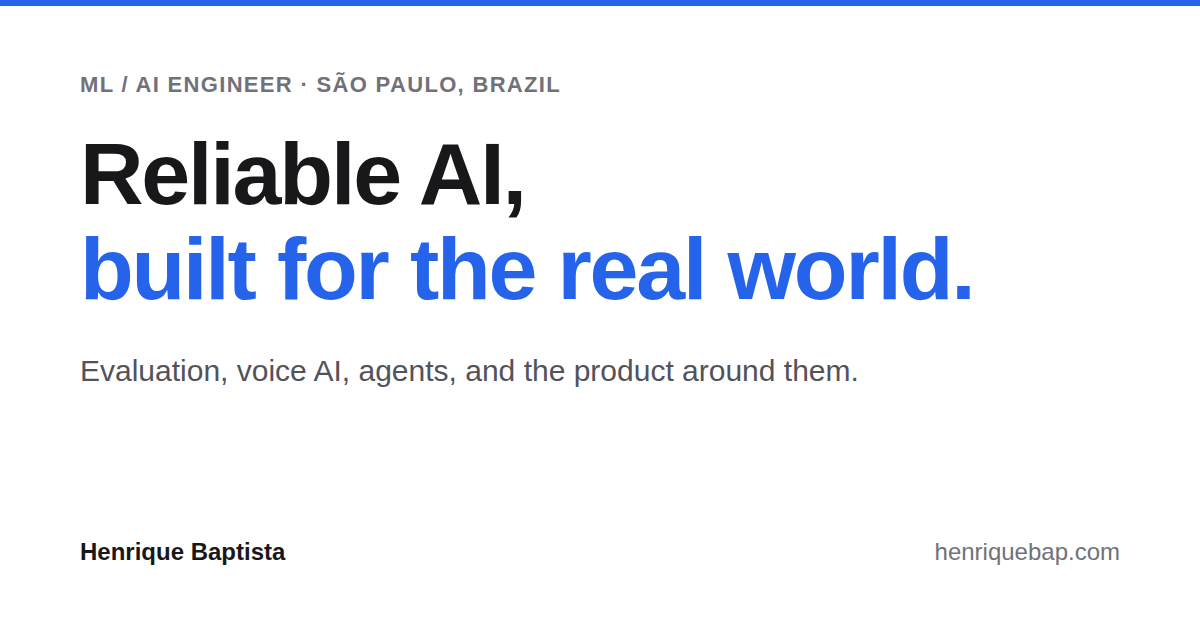
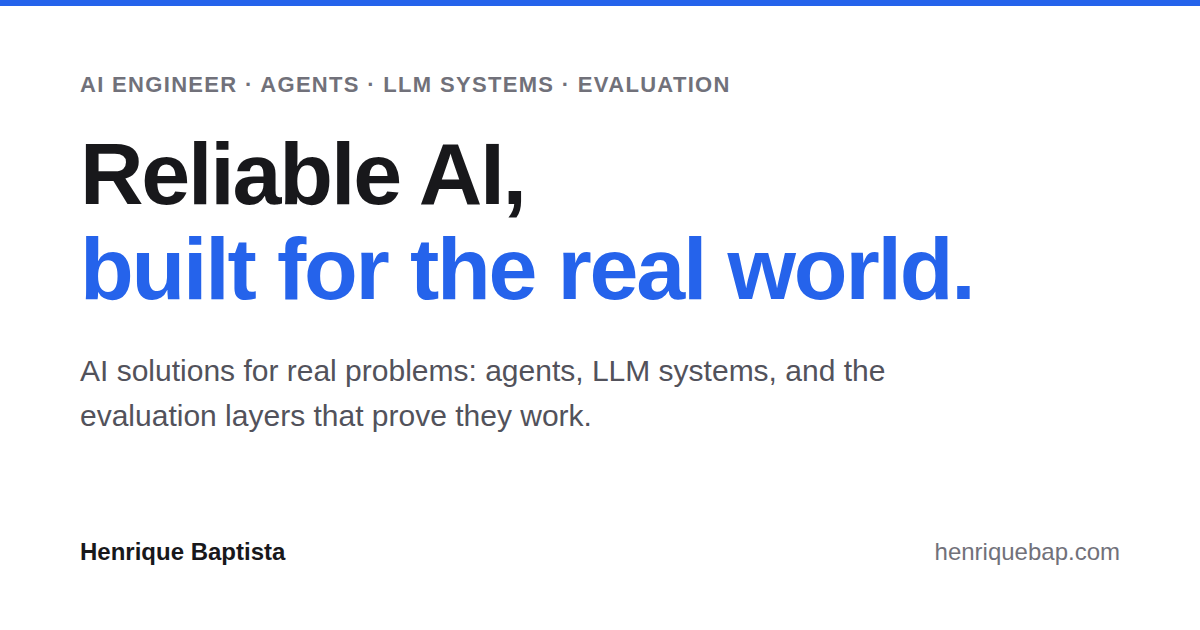
feat: reposition profile as AI Engineer focused on agents and real problems
Lead with agents, LLM systems, and evaluation instead of ML/product
framing. Replace effort-count metrics (provider counts, test files)
with outcome and stakes metrics: SOAR clinical trial context, 150x
speedup, production WER, language coverage. Add an Agents capability
group and an open source card for the langchain-ai/deepagents
contribution. Retitle WordinAI role to AI Engineer & Founder and update
all meta tags, JSON-LD, and the og-image to match.

Changed region(s): [[0.0617, 0.573, 0.74, 0.6937], [0.0617, 0.1206, 0.6167, 0.1508], [0.0617, 0.573, 0.1542, 0.6032]]

diff --git a/portfolio/src/data/projects.js b/portfolio/src/data/projects.js
@@ -1,10 +1,10 @@
 export const profile = {
   name: 'Henrique Baptista',
-  title: 'ML / AI Engineer',
-  subtitle: 'Production AI Systems · Evaluation · Voice AI',
-  tagline: 'I build AI systems that hold up in production. My work covers evaluation, data pipelines, APIs, deployment, and the product around them.',
-  about: `I work across the full lifecycle of production AI: defining what quality means, curating the right data, evaluating model behavior, building backend services, and shipping things people actually use. Most of my experience sits where LLM quality, voice AI, and product engineering meet.`,
-  aboutExtended: `In my most recent role I built evaluation and data workflows for medical AI. On my own, I designed and shipped WordinAI, a transcription SaaS that runs on multiple providers. The pattern is the same in both: make quality measurable, plan for failure, and own the path from prototype to production.`,
+  title: 'AI Engineer',
+  subtitle: 'Agents · LLM Systems · Evaluation',
+  tagline: 'I build agents and LLM systems that hold up in production, and the evaluation systems that prove they work.',
+  about: `I build LLM systems for production: agents that plan and use tools, the pipelines that feed them, and the evaluation layers that decide what ships. Most of my experience sits where agents, LLM quality, and voice AI meet, in settings where being wrong has a cost.`,
+  aboutExtended: `In my most recent role I worked on medical AI supporting SOAR, the first AI clinical trial for medical documentation in Latin America. On my own, I built and operate WordinAI, a live SaaS running on a deep agent. I also contribute to open source agent tooling, including langchain-ai/deepagents. The pattern is the same everywhere: make quality measurable, plan for failure, and own the path from prototype to production.`,
   contact: {
     linkedin: 'https://www.linkedin.com/in/henrique-baptista777/',
     github: 'https://github.com/henriquebap',
@@ -14,25 +14,19 @@ export const profile = {
   educationBachelor: 'Bachelor in Systems Analysis & Development, FIAP (completed Dec 2024)'
 };
 
-export const proofPoints = [
-  { value: '9', label: 'ASR providers benchmarked' },
-  { value: '217', label: 'medical ASR failure variants' },
-  { value: '5', label: 'LangGraph workflow nodes' },
-  { value: '2', label: 'end-to-end products shipped' }
-];
 
 export const caseStudies = [
   {
     id: 'medical-asr',
     index: '01',
     title: 'Medical AI Evaluation & ASR',
-    eyebrow: 'Professional work · HealthTech',
-    role: 'ML / AI Engineer',
+    eyebrow: 'Professional work · First AI clinical docs trial in LatAm',
+    role: 'AI Engineer',
     status: 'Private system',
-    shortDescription: 'From ASR and VAD tuning to fine-tuning data curation and LLM/agent evaluation for clinical audio.',
+    shortDescription: 'The evaluation and data systems behind a clinical AI product: ASR, VAD, fine-tuning data, and LLM/agent evaluation.',
     fullDescription: 'A progression through the whole voice AI stack for medical audio: ASR model work and usability improvements, VAD integration for better context, provider benchmarking and product validation, dataset curation for fine-tuning, and evaluation of LLM and agent generation.',
     narrative: {
-      problem: 'Clinical audio is hard. Heavy accents, people talking over each other, dense medical vocabulary. Transcription errors are easy to miss, and in a healthcare product the ones you miss are the ones that hurt.',
+      problem: 'Clinical audio is hard. Heavy accents, people talking over each other, dense medical vocabulary. Transcription errors are easy to miss, and this product supported SOAR, the first AI clinical trial for medical documentation in Latin America. Errors that reach a clinical document have real consequences.',
       approach: 'I started deep in the ASR models themselves, improving how usable their output was in practice. Then I brought VAD into the pipeline so the system captured more context from each recording. With that base, I benchmarked 9 providers and validated ASR quality for the product: WER and CER analysis, dual-annotator labeling in Argilla, and an LLM-as-Judge layer on top.',
       reasoning: 'No single check is trustworthy on medical terminology. One annotator makes mistakes, and one automated score misses whole categories of errors. So I combined human consensus with an LLM judge and deterministic checks. Each one catches failures the others let through.',
       outcome: 'The benchmark cataloged 217 failure variants across 9 providers. From there I owned the dataset curation and preparation flow for a fine-tuning project, then moved to evaluating LLM and agent generation with LLM-as-Judge and deeper evaluation techniques. That work kept surfacing concrete product and usability improvements.'
@@ -45,9 +39,9 @@ export const caseStudies = [
       'Dual-annotator consensus with reviewer adjudication'
     ],
     metrics: [
-      { value: '9', label: 'ASR providers' },
-      { value: '217', label: 'error variants' },
-      { value: '8', label: 'pipeline modules' }
+      { value: 'SOAR', label: 'first AI clinical docs trial in LatAm' },
+      { value: '217', label: 'failure modes cataloged' },
+      { value: 'E2E', label: 'from ASR to agent evaluation' }
     ],
     technologies: ['Python', 'PyTorch', 'Whisper', 'Hugging Face', 'Argilla', 'AWS S3', 'Docker'],
     skillsShown: ['Evaluation design', 'Fine-tuning data curation', 'Statistical & error analysis', 'Agent evaluation', 'Data pipeline engineering'],
@@ -69,7 +63,7 @@ export const caseStudies = [
     index: '02',
     title: 'WordinAI',
     eyebrow: 'Independent product · Live SaaS',
-    role: 'Product & AI Engineer',
+    role: 'AI Engineer · Founder',
     status: 'Live product',
     shortDescription: 'Transcription and document generation platform running on a deep agent, built and operated end to end.',
     fullDescription: 'A SaaS platform that turns long-form audio into structured documents. At its core is a deep agent built on LangGraph, surrounded by model and tool routing, semantic transcript search, multi-provider transcription, authentication, subscriptions, observability, and export workflows.',
@@ -77,7 +71,7 @@ export const caseStudies = [
       problem: 'Long recordings are easy to make and painful to use. People recording sermons, lectures, and meetings wanted structured documents they could search and share, not a wall of raw transcript.',
       approach: 'I built a deep agent on LangGraph that plans its work, routes between tools and model tiers, and generates structured documents from transcripts. Around it I built the actual product: auth, subscriptions, semantic search, and export.',
       reasoning: 'External APIs fail, so every provider integration sits behind a circuit breaker with a fallback. Transcription, LLM calls, billing, all of them. The product stays up when a dependency degrades. I also route lighter tasks to Groq because it is cheaper, which keeps unit economics sane as usage grows.',
-      outcome: 'A live SaaS product I operate end to end, from architecture to billing to being the one who gets paged. Sentry and PostHog keep quality and usage visible instead of assumed.'
+      outcome: 'A live SaaS product I operate end to end, from architecture to billing to being the one who gets paged. It turns an hour of audio into structured documents in about 3 minutes, roughly 150x faster than the manual workflow, at 8 to 12% WER across 90+ languages. Sentry and PostHog keep quality and usage visible instead of assumed.'
     },
     highlights: [
       'LangGraph workflow with typed state, planning, tools, and model tiers',
@@ -86,9 +80,9 @@ export const caseStudies = [
       'Vitest coverage plus Sentry and PostHog instrumentation'
     ],
     metrics: [
-      { value: '5', label: 'graph nodes' },
-      { value: '12', label: 'test files' },
-      { value: '3', label: 'circuit breakers' }
+      { value: '150x', label: 'faster than manual workflow' },
+      { value: '8-12%', label: 'WER in production' },
+      { value: '90+', label: 'languages supported' }
     ],
     technologies: ['Next.js', 'TypeScript', 'LangGraph', 'Whisper', 'Supabase', 'Sentry'],
     skillsShown: ['System architecture', 'Agentic workflow design', 'Full-stack product engineering', 'Reliability engineering'],
@@ -257,6 +251,13 @@ export const agentWork = [
     focus: 'MCP document automation',
     description: 'An MCP plugin that automates document creation for the site, generating and updating content through the agent instead of by hand.',
     liveUrl: 'https://vinibap.com'
+  },
+  {
+    id: 'agent-oss',
+    title: 'Open source',
+    focus: 'langchain-ai/deepagents',
+    description: 'Contributor to deepagents, LangChain\'s structured runtime for multi-step agents with planning, memory, and context isolation. Also contributed to agents-towards-production.',
+    liveUrl: 'https://github.com/langchain-ai/deepagents'
   }
 ];
 
@@ -281,24 +282,24 @@ export const productEngineering = [
 
 export const capabilities = [
   {
+    title: 'Agents',
+    description: 'Design agents that plan, use tools, and recover from failure.',
+    items: ['LangGraph', 'deepagents', 'MCP', 'Tool routing', 'Multi-agent orchestration']
+  },
+  {
     title: 'Evaluate',
-    description: 'Make model quality observable and testable.',
+    description: 'Build the evaluation layers that decide what ships.',
     items: ['LLM-as-Judge', 'Evaluation datasets', 'WER / CER', 'Failure analysis', 'Production QA']
   },
   {
     title: 'Build',
-    description: 'Turn AI workflows into maintainable products.',
-    items: ['Python', 'FastAPI', 'PyTorch', 'LangChain / LangGraph', 'Hugging Face']
+    description: 'Turn AI workflows into maintainable systems.',
+    items: ['Python', 'FastAPI', 'PyTorch', 'TypeScript / Next.js', 'Hugging Face']
   },
   {
     title: 'Operate',
     description: 'Design for failures, cost, latency, and change.',
-    items: ['Docker', 'AWS S3', 'PostgreSQL', 'CI/CD', 'Prometheus / Evidently']
-  },
-  {
-    title: 'Ship',
-    description: 'Own the path from system design to user experience.',
-    items: ['TypeScript', 'Next.js', 'Supabase', 'REST APIs', 'Product engineering']
+    items: ['Docker', 'AWS', 'PostgreSQL / Supabase', 'CI/CD', 'Sentry / Evidently']
   }
 ];
 

diff --git a/portfolio/index.html b/portfolio/index.html
@@ -9,14 +9,14 @@
     <link rel="preconnect" href="https://fonts.googleapis.com" />
     <link rel="preconnect" href="https://fonts.gstatic.com" crossorigin />
     <link href="https://fonts.googleapis.com/css2?family=Inter:wght@400;500;600;700&display=swap" rel="stylesheet" />
-    <meta name="description" content="Henrique Baptista, ML / AI Engineer building reliable production AI systems across evaluation, Voice AI, data pipelines, APIs, and product." />
-    <meta name="keywords" content="ML Engineer, AI Engineer, LLM Evaluation, Voice AI, ASR, Python, FastAPI, PyTorch, Hugging Face, Henrique Baptista" />
+    <meta name="description" content="Henrique Baptista, AI Engineer building reliable production AI systems across evaluation, Voice AI, data pipelines, APIs, and product." />
+    <meta name="keywords" content="AI Engineer, AI Agents, LangGraph, LLM Evaluation, Voice AI, ASR, Python, FastAPI, PyTorch, Hugging Face, Henrique Baptista" />
     <meta name="author" content="Henrique Baptista" />
     <link rel="canonical" href="https://henriquebap.com/" />
     
     <!-- Open Graph -->
-    <meta property="og:title" content="Henrique Baptista | ML / AI Engineer" />
-    <meta property="og:description" content="Reliable production AI systems: evaluation, Voice AI, data pipelines, APIs, and product engineering." />
+    <meta property="og:title" content="Henrique Baptista | AI Engineer" />
+    <meta property="og:description" content="Agents and LLM systems that hold up in production, and the evaluation layers that prove they work." />
     <meta property="og:type" content="website" />
     <meta property="og:url" content="https://henriquebap.com/" />
     <meta property="og:image" content="https://henriquebap.com/og-image.png" />
@@ -25,18 +25,18 @@
     
     <!-- Twitter Card -->
     <meta name="twitter:card" content="summary_large_image" />
-    <meta name="twitter:title" content="Henrique Baptista | ML / AI Engineer" />
-    <meta name="twitter:description" content="Reliable production AI systems: evaluation, Voice AI, data pipelines, APIs, and product engineering." />
+    <meta name="twitter:title" content="Henrique Baptista | AI Engineer" />
+    <meta name="twitter:description" content="Agents and LLM systems that hold up in production, and the evaluation layers that prove they work." />
     <meta name="twitter:image" content="https://henriquebap.com/og-image.png" />
     
-    <title>Henrique Baptista | ML / AI Engineer</title>
+    <title>Henrique Baptista | AI Engineer</title>
 
     <script type="application/ld+json">
     {
       "@context": "https://schema.org",
       "@type": "Person",
       "name": "Henrique Baptista",
-      "jobTitle": "ML / AI Engineer",
+      "jobTitle": "AI Engineer",
       "url": "https://henriquebap.com/",
       "email": "mailto:henrique.obap@gmail.com",
       "address": {

diff --git a/portfolio/src/components/ProjectsGrid.jsx b/portfolio/src/components/ProjectsGrid.jsx
@@ -11,7 +11,7 @@ const ProjectsGrid = () => (
         <Box>
           <Text className="eyebrow" mb={3}>Working with agents now</Text>
           <Text color="gray.600" lineHeight="1.75" mb={6}>
-            Agents are the thread through my current work. Three places where I'm applying them today:
+            Agents are the thread through my current work, in products and in open source:
           </Text>
           <VStack align="stretch" spacing={4}>
             {agentWork.map((project) => (

diff --git a/portfolio/src/components/About.jsx b/portfolio/src/components/About.jsx
@@ -49,7 +49,7 @@ const About = () => (
             Experience & education
           </Heading>
           <VStack align="stretch" spacing={2} fontSize="sm" color="gray.600">
-            <Text>ML / AI Engineer, production medical AI systems (Feb 2025 to Jul 2026)</Text>
+            <Text>AI Engineer, production medical AI systems (Feb 2025 to Jul 2026)</Text>
             <Text>{profile.education}</Text>
             <Text>{profile.educationBachelor}</Text>
           </VStack>
